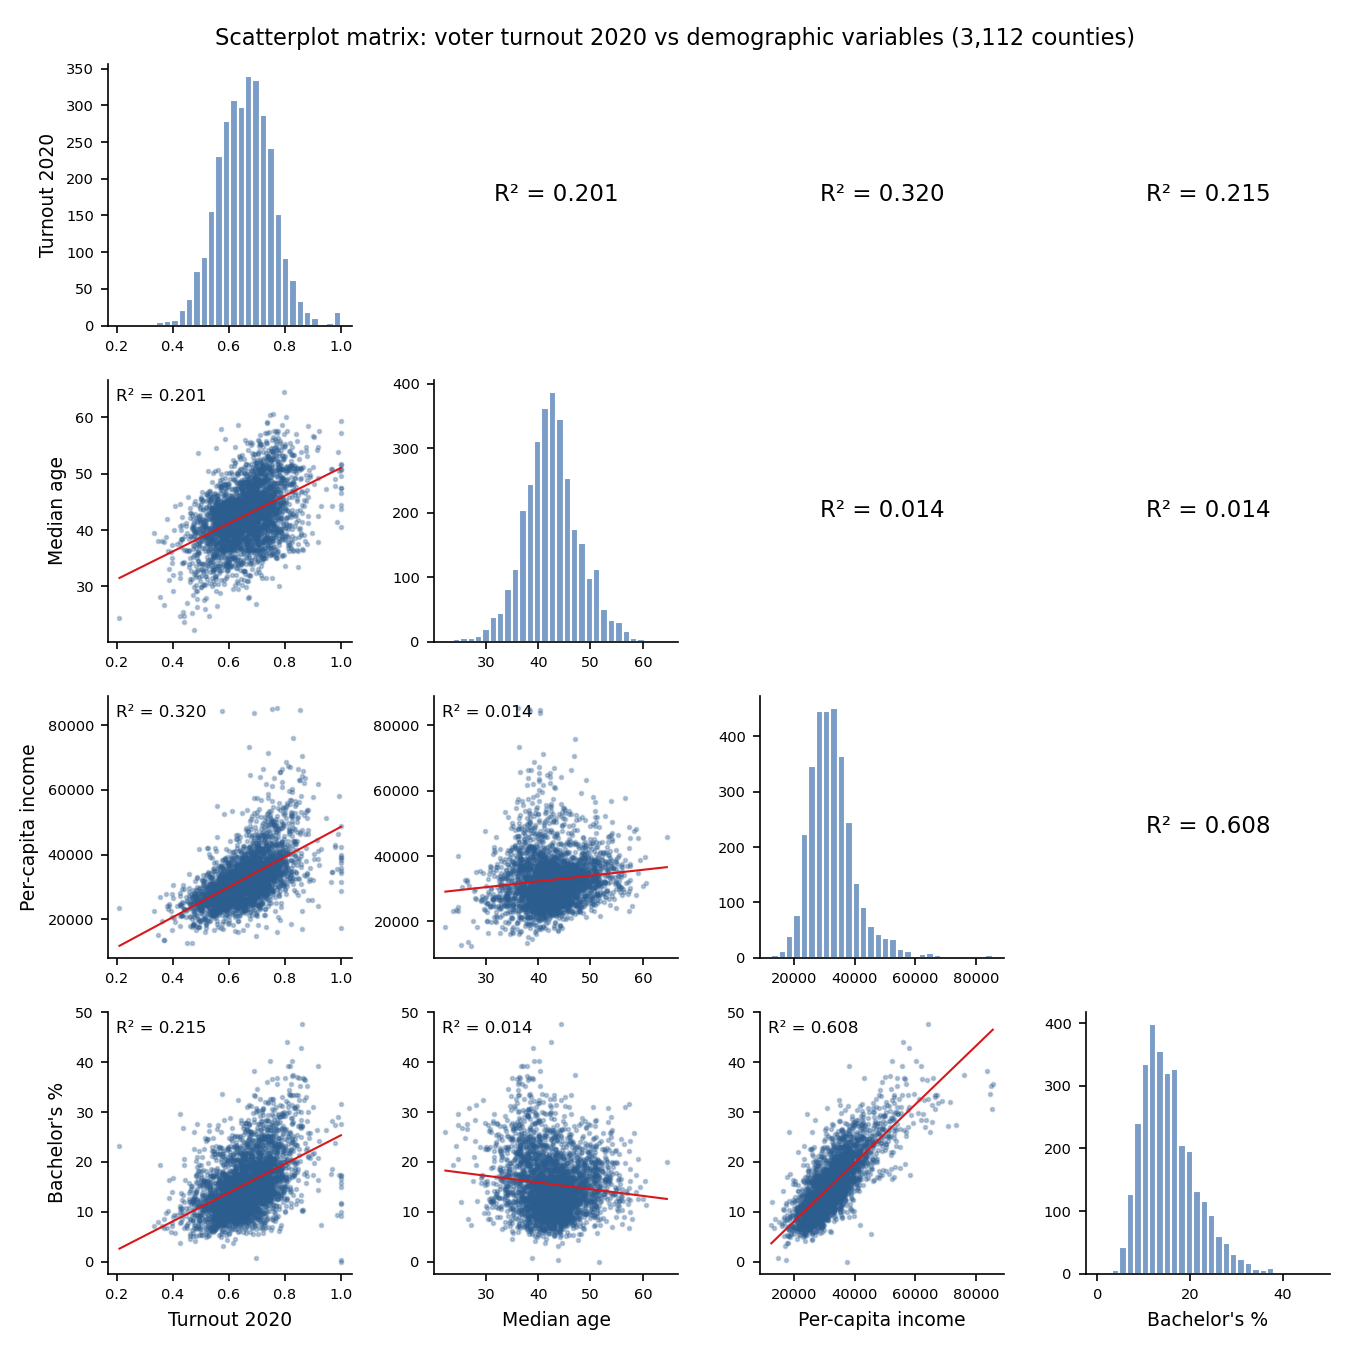
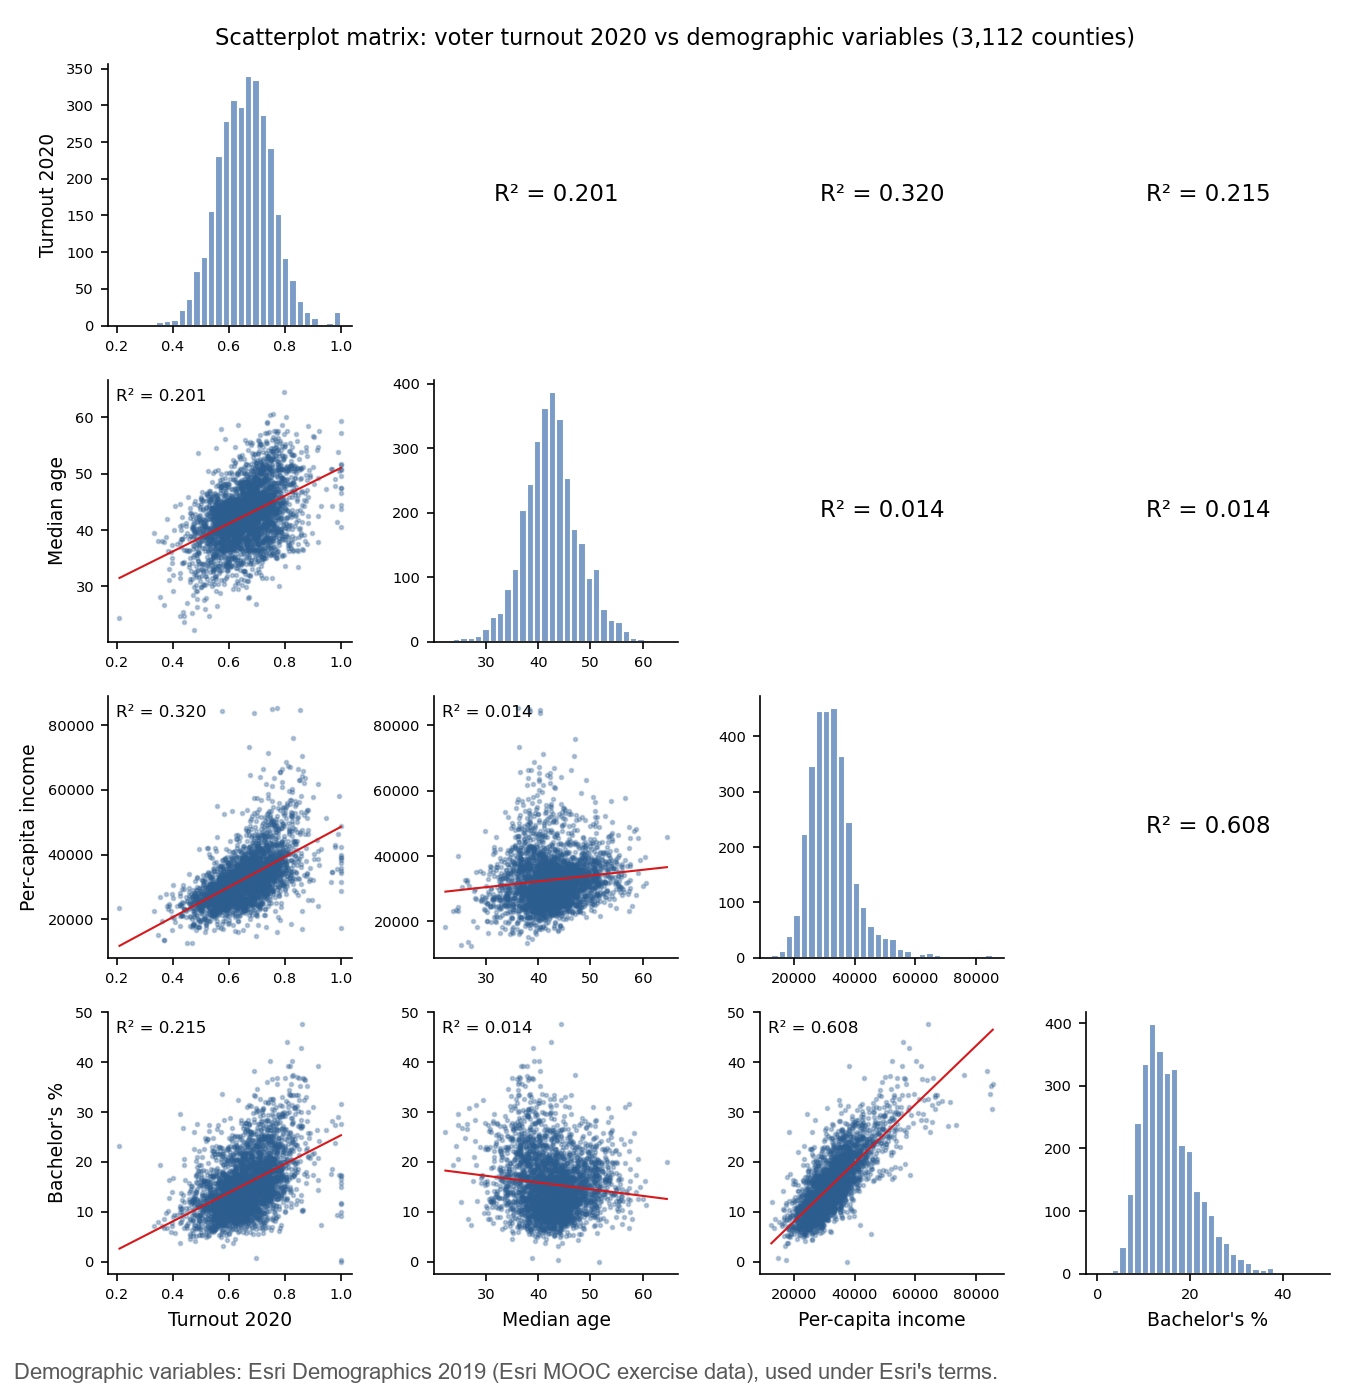
Credit Esri Demographics on figures; clarify licence scope; fold sizes

diff --git a/src/s1_visualization.py b/src/s1_visualization.py
@@ -156,7 +156,8 @@ def scatter_matrix(plt, df):
                 ax.set_ylabel(labels[i])
             ax.tick_params(labelsize=7)
     fig.suptitle("Scatterplot matrix: voter turnout 2020 vs demographic variables (3,112 counties)")
-    fig.tight_layout()
+    fig.tight_layout(rect=(0, 0.03, 1, 1))
+    fig.text(0.01, 0.008, "Demographic variables: Esri Demographics 2019 (Esri MOOC exercise data), used under Esri's terms.", fontsize=8, color="0.35")
     fig.savefig(C.FIG / "s1_scatter_matrix.png")
     plt.close(fig)
     return [r for r in r2 if r["y"] == "voter_turnout_2020" or r["x"] == "voter_turnout_2020"]

diff --git a/src/s2_prediction.py b/src/s2_prediction.py
@@ -286,6 +286,7 @@ def figures(arcpy, plt, models, loso_rows, loso_pooled, gdb, refined_vars):
     axes[1].set_title("Predicted tract turnout (refined forest model)")
     sm = plt.cm.ScalarMappable(norm=norm, cmap=cmap)
     fig.colorbar(sm, ax=axes, shrink=0.7, label="Voter turnout")
+    fig.text(0.01, -0.02, "Demographic variables: Esri Demographics 2019 (Esri MOOC exercise data), used under Esri's terms.", fontsize=8, color="0.35")
     fig.savefig(C.FIG / "s2_tract_prediction.png", bbox_inches="tight")
     plt.close(fig)
 
